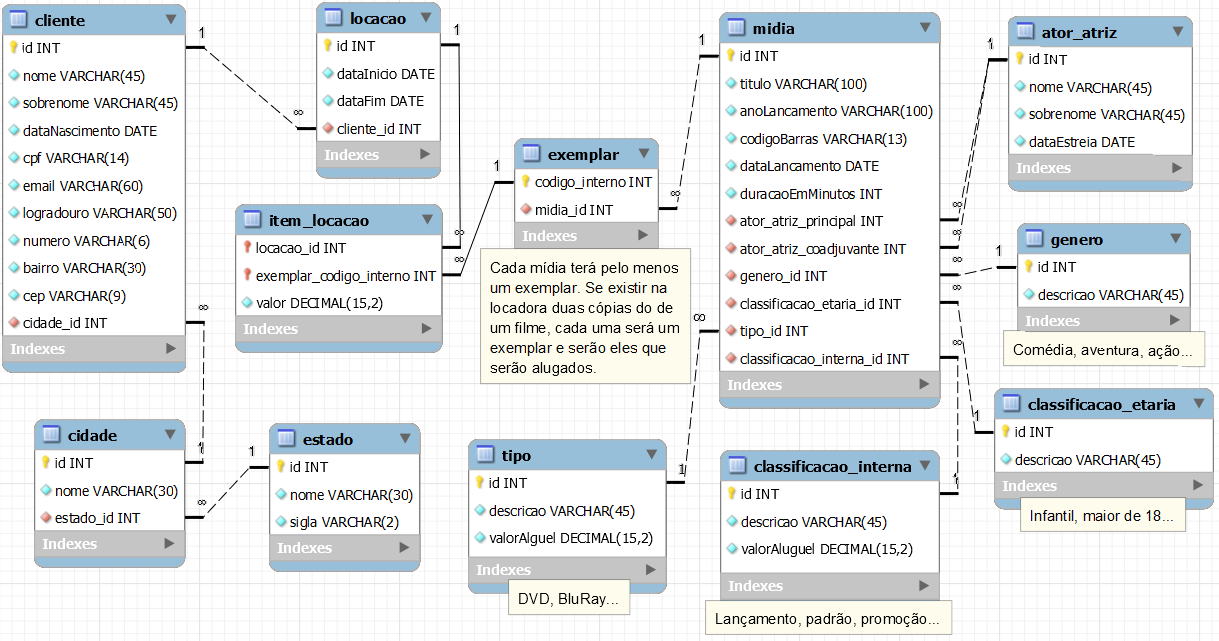
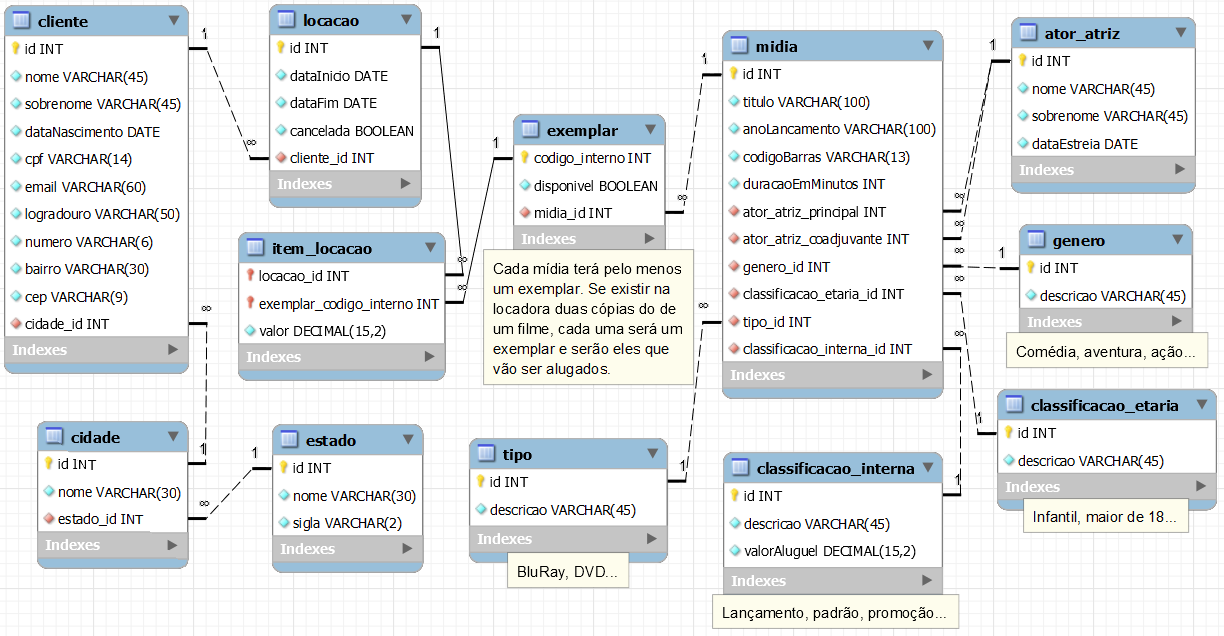
cap09

Changed region(s): [[0.0, 0.0, 1.0, 1.0]]

diff --git a/capitulo09QuartoProjeto.tex b/capitulo09QuartoProjeto.tex
@@ -17,13 +17,13 @@ Você foi contratado para criar um sistema para controle de cadastro de mídias.
 \begin{figure}[!htbp]
     \centering
     \caption{Diagrama do modelo físico da base de dados}
-    \includegraphics[scale=0.5]{imagens/cap09ModeloFisico}
+    \includegraphics[scale=0.45]{imagens/cap09ModeloFisico}
     \\\textbf{Fonte:} Elaborada pelo autor
     \label{fig:cap09ModeloFisico}
 \end{figure}
 \FloatBarrier
 
-As entidades e seus atributos você poderá ver no diagrama apresentado acima. Abaixo serão explicados os detalhes de cada uma das funcionalidades. Cada um dos cadastros base, ou seja, cadastro de mídias e seus exemplares, atores/atrizes, gêneros, classificações etárias, tipos, classificações internas, clientes, cidades e estados, deve conter as funcionalidades de criar, alterar e excluir um determinado registro. A página principal da aplicação deve conter um link para cada tipo de cadastro. Cada mídia pode ter um ou mais de um exemplares. O valor da locação virá da classificação interna de uma mídia, por exemplo, quando um filme ou jogo é lançamento, a locação é mais cara, concorda? Abaixo de cada nova tabela há uma caixa de texto com alguns exemplos do que poderia haver naquele cadastro para que você possa se guiar. O processo de locação é análogo ao processo de venda de produtos do Capítulo~\ref{cap:terceiroProjeto} e aqui a locação é por exemplar, então a tabela de itens de locação já está correta para a modelagem da solução desse problema.
+As entidades e seus atributos você poderá ver no diagrama apresentado acima. Cada um dos cadastros base, ou seja, cadastro de mídias e seus exemplares, atores/atrizes, gêneros, classificações etárias, tipos, classificações internas, clientes, cidades e estados, deve conter as funcionalidades de criar, alterar e excluir um determinado registro. A página principal da aplicação deve conter um link para cada tipo de cadastro. Cada mídia pode ter um ou mais de um exemplares. O valor da locação virá da classificação interna de uma mídia, por exemplo, quando um filme ou jogo é lançamento, a locação é mais cara, concorda? Abaixo de cada nova tabela há uma caixa de texto com alguns exemplos do que poderia haver naquele cadastro para que você possa se guiar. O processo de locação é análogo ao processo de venda de produtos do Capítulo~\ref{cap:terceiroProjeto} e aqui a locação é por exemplar, então a tabela de itens de locação já está correta para a modelagem da solução desse problema, pois não será possívei alugar o mesmo examplar duas vezes na mesma locação.
 
 
 \section{Desenvolvimento do Projeto}
@@ -33,4 +33,4 @@ O projeto Web que deverá ser criado deve ter o nome de ``LocacaoMidias''. Confi
 
 \section{Resumo}
 
-Neste Capítulo foi requisitado que você implementasse uma aplicação Web em Java para gerenciar a locação de mídias como DVDs e BluRays, por isso, não há atividades a serem realizadas.
+Neste Capítulo foi requisitado que você implementasse uma aplicação Web em Java para gerenciar a locação de mídias como BluRays e DVDs, por isso, não há atividades a serem realizadas.

diff --git a/LivroProgramaçãoParaWebEmJava.tex b/LivroProgramaçãoParaWebEmJava.tex
@@ -61,15 +61,14 @@
 %
 %\part{O Que Falta do Básico?}
 %\input{capitulo07JavaScript}
-\input{capitulo08TerceiroProjeto}
+%\input{capitulo08TerceiroProjeto}
 \input{capitulo09QuartoProjeto}
-%\input{capitulo10Implantacao}
 %
 %\part{O Mundo Real}
-%\input{capitulo11FrameworksPersistencia}
-%\input{capitulo12FrameworksMVC}
-%\input{capitulo13FrameworksFrontEnd}
-%\input{capitulo14TopicosVariados}
+%\input{capitulo10FrameworksPersistencia}
+%\input{capitulo11FrameworksMVC}
+%\input{capitulo12FrameworksFrontEnd}
+%\input{capitulo13TopicosVariados}
 
 
 \backmatter
